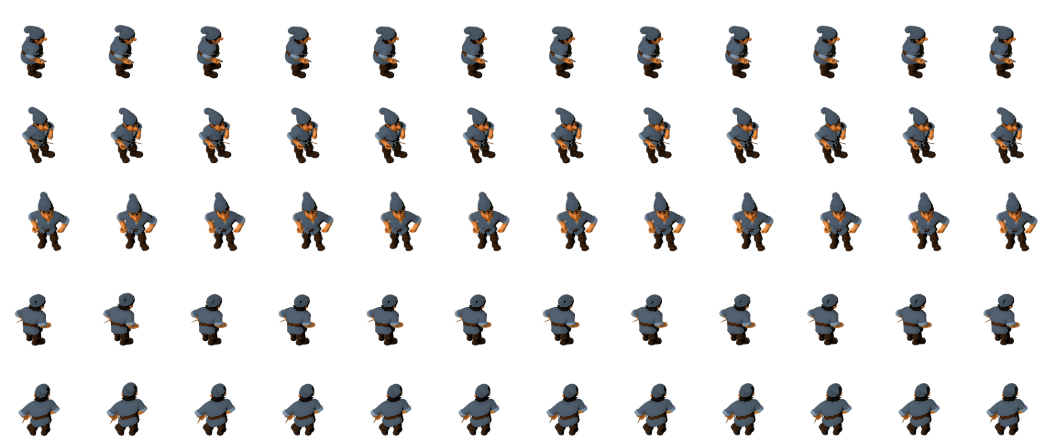
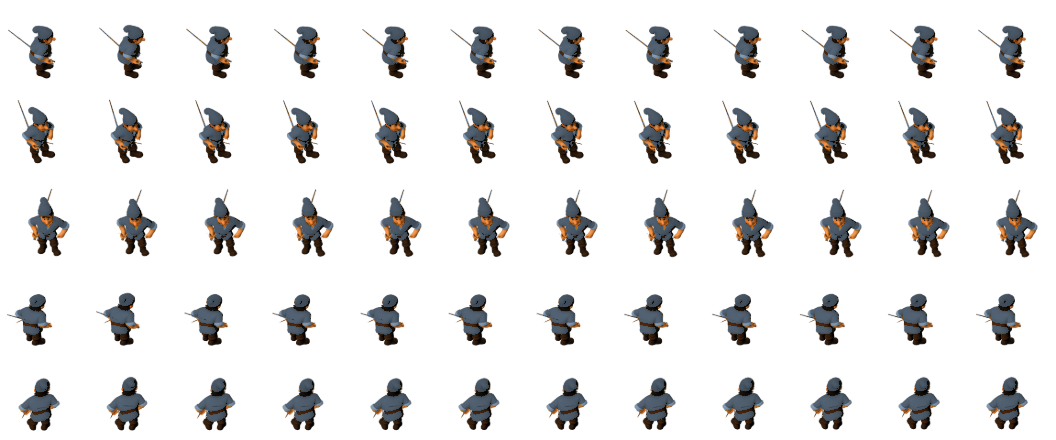
v238 Teil 1: Der Fischer traegt seine Rute - geschultert im Gehen und Stehen
Bisher hatte er die Rute nur im Wurf; jetzt fuehrt er sie getragen mit
(werkzeug.walk/idle statt nur atk). Kalibrierung im kalibrot-Muster:
walk [140,0,0] - geschulterte Diagonale, Spitze hinter-oben, keine
Bein-/Kapuzen-Kollision; idle braucht einen EIGENEN Winkel [125,0,0],
weil der echte Warte-Clip die Faust ~35 Grad anders haelt (mit dem
walk-Wert kippte die Rute waagerecht). Naht-Check sauber (Rutenwinkel
laeuft ueber den Loop stetig weiter), Taubenblau idempotent
nachgefaerbt, 35px-Probe: klare Diagonale in allen Richtungen.

Notiert (Bestand, eigener Beschluss): der Fischer-Geh-Clip zeigt in der
Periodik-Messung Anzeichen des bekannten Doppelzyklus (wie geo/
woodcutter vor T15) - die Naht ist sauber, ein walkFenster wuerde das
Schritttempo sichtbar aendern.

kd5 gruen. (sw-Bump folgt mit dem Gebirgs-Teil von T18.)

Claude-Session: https://claude.ai/code/session_01NJiXwFpbq91ri9gPbhzERB

diff --git a/tools/posen.js b/tools/posen.js
@@ -654,7 +654,25 @@ export const POSEN = {
   // R: 5363/403/821), Stiefel und Zehen-Miniinseln bleiben unberuehrt
   // (verifiziert: Isolat = exakt die Angel, Restfigur vollstaendig).
   // Die prozedurale 'rod' an der Faust uebernimmt.
-  fisher:  { koerper: DICK, atk: ANGELN, werkzeug: IN_FAUST('rod',1.25),
+  // Getragene Rute (T20, Spielerwunsch): auch in walk/idle haelt er die
+  // Rute - GESCHULTERT wie ein Angler auf dem Weg zum Wasser (Spitze
+  // schraeg hinter-oben). Trage-Rotation per kalibrot-fisher(2).png
+  // vermessen: [0,0,0] schleifte die Spitze vorn-unten ueber den Boden,
+  // [90,0,0] (atk-Wert) lag laengs der Blickachse und verschwand in der
+  // Seitenansicht, [160,0,0]+ klebte an Kopf/Kapuze, [200,0,0] stand
+  // quer seitlich ab. [140,0,0] gibt die klarste freie Diagonale
+  // (Spitze hinter der Schulter, keine Bein-/Kapuzen-Kollision).
+  // idle EIGENER Winkel: der echte Warte-Clip des Fischers haelt die
+  // Faust ~35 Grad anders als der Geh-Zyklus - mit dem walk-Wert 140
+  // kippte die Rute fast waagerecht nach hinten (kalibrot-fisher-idle
+  // .png: 175=waagerecht, 205=haengend); 125 stellt sie wieder auf die
+  // geschulterte ~50-Grad-Diagonale (kalibrot-fisher-idle2.png).
+  fisher:  { koerper: DICK, atk: ANGELN,
+             werkzeug:{
+               walk:{ kind:'rod', bone:'R_Hand', pos:[0,0.02,0], rot:[140,0,0], scale:1.25 },
+               idle:{ kind:'rod', bone:'R_Hand', pos:[0,0.02,0], rot:[125,0,0], scale:1.25 },
+               atk: { kind:'rod', bone:'R_Hand', pos:[0,0.02,0], rot:[90,0,0],  scale:1.25 },
+             },
              entfernen:[1978,3663,4085,3826,2943,2739,4166,2946,3498,3840,120,4127,3704,3805,3827,4100,4053,4169,4624,4614,4766,3405,3643,3817,3732,3818,3825,3801,3917,4130,4060,4196,4325,4416,1335,3819,3891,4434,4577,4414,4578,4625,4719,1830,1519,4083,4165,3260,3568,4139,3496,3560,3726,3660,3727,3832,3796,3778,3908,3894,3939,3941,3896,4152,4019,4067,4059,4072,4087,4093,4133,4172,4134,4161,4158,4199,4171,4217,4501,4327,4415,4472,4579,4503,4505,4527,4649,4605,4720,4615,4616,4683,1449,4102,4185,3376,3500,3645,3719,3612,3738,3838,3812,3887,3888,3936,3897,3895,3892,3931,3861,3862,3934,3890,3964,3893,3928,3981,3940,3943,3933,3935,3946,4005,4145,4020,3989,3990,4075,4151,4144,4028,4094,4178,4150,4435,4245,4163,4160,4247,4220,4232,4233,4235,4288,4440,4442,4328,4378,4363,4366,4525,4417,4502,4528,4537,4475,4546,4477,4478,4479,4617,4663,4664,4679,4513,4545,4691,4548,4589,4694,4596,4653,4600,4558,4654,4658,4604,4594,4595,4657,4660,4665,4723,4724,4633,4635,4684,4662,4682,4701,4738,7164,7123,4637,7159,4737,6843,6749,6765,6746,6768,6552,6854,5186,6444,6913,3723,3970,6503,2482,2484,4730,6980,1116,4347,6381,6859,6963,4303,7175,6943,6322,6747,3906,2887,6750,6869,6931,6898,6936,6892,6995,5105,2485,3693,3767,3953,3700,1014,4061,4230,4227,5492,6576,7106,7084,107,1018,109,5069,1918,2487,1916,2489,3701,4305,4251,4275,4301,4639,6171,6173,7162,7177,7115,3460,4206,4404,4298,4308,4361,4467,6985,7094,2880,4314,4292,4354,4575,6966,7112,4190,4223,4290,4456,4372,4572,4447,7051,7064,4032,4261,4271,4340,4457,4454,4496,4498,4573,4397,4398,4445,7010,7119,7110,7093,7113,162,7073,7108,6748,7041,7092,6896,531,1705,732,5070,6808,6810,6965,6921,6981,5695,5106,6784,6785,6835,6935,7002,7042,6938,6982,6971,6941,6961,6970,6987,7013,6984,7067,6989,7007,7097,7021,7098,7191,7202,7189,7212,6903,4359,4565,6901,1982,1834,1334] },
   // Soldaten (T16): sword/spear tragen jetzt PROZEDURALE Faust-Waffen -
   // die Mesh-Waffen (nur Oberarm-geskinnt, "Golfschlag"-Grenze) fliegen
